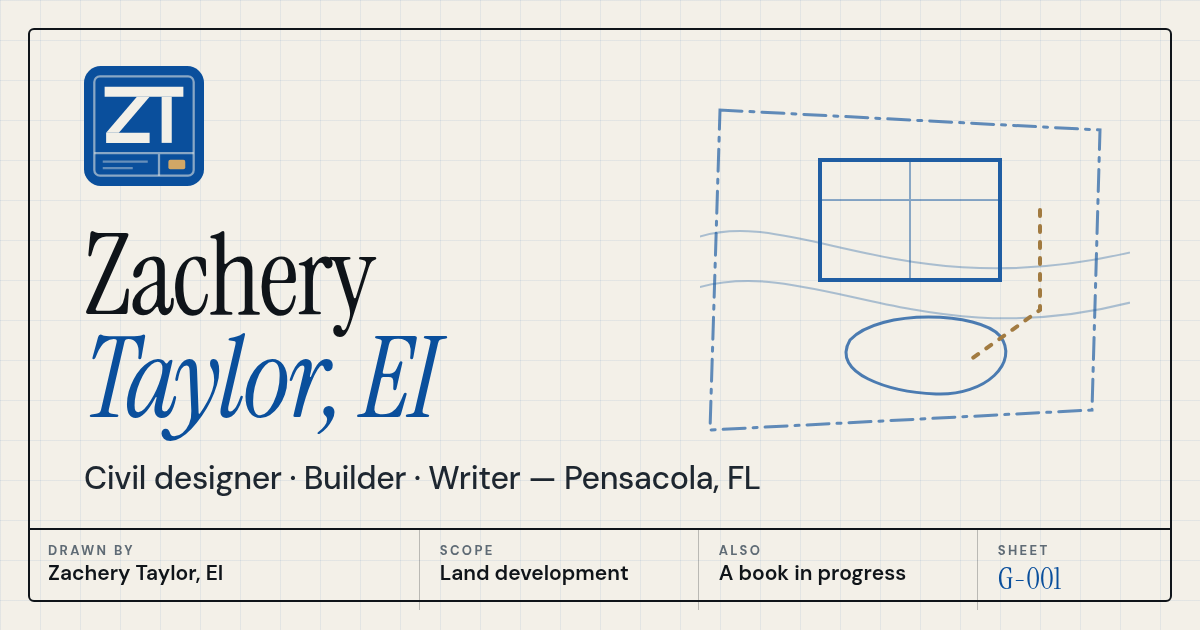
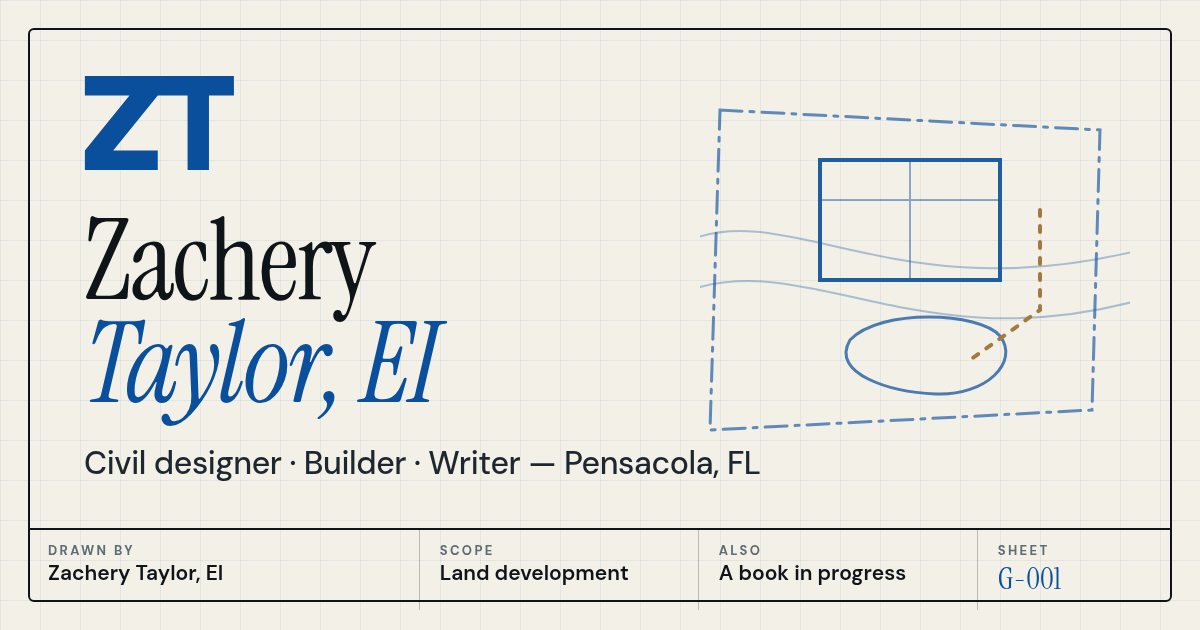
Monogram: adopt N1 (Ligature) site-wide
- site.config monogram n1; nav, footer title block, 404 and résumé (screen + print) use it
- favicons: favicon.svg adapts to light/dark; ico (16+32), favicon-16/32.png and 192/512 icons use the blue N1 tile
- apple-touch-icon and maskable 192/512 manifest icons from a full-bleed N1 app icon
- og-default.png re-rendered with N1 (scripts/og-card.html)
- brand.html: N1 shown as the selected mark; all explored options collapsed below

Changed region(s): [[0.0617, 0.3317, 0.6475, 0.7841], [0.0617, 0.0905, 0.2158, 0.3016]]

diff --git a/eleventy.config.js b/eleventy.config.js
@@ -188,24 +188,42 @@ export default function (eleventyConfig) {
   });
   eleventyConfig.addFilter("where", (arr, key, val) => (arr || []).filter((x) => x[key] === val));
 
-  /* ---- favicons from the selected monogram ---- */
+  /* ---- favicons + app icons from the selected monogram ----
+     favicon.svg          the mark itself (container-less marks adapt to the
+                          OS light/dark setting through their own <style>)
+     favicon.ico, favicon-16/32.png, icon-192/512.png
+                          from monogram-<key>-tile.svg when it exists (a solid
+                          tile reads on light and dark browser chrome alike)
+     apple-touch-icon.png, icon-maskable-192/512.png
+                          from monogram-<key>-app.svg (full-bleed, safe zone) */
   eleventyConfig.on("eleventy.after", async ({ dir }) => {
-    const svg = srcPath(`assets/brand/monogram-${site.monogram}.svg`);
+    const base = `assets/brand/monogram-${site.monogram}`;
+    const pick = (...c) => c.map((f) => srcPath(`${base}${f}.svg`)).find((f) => fs.existsSync(f));
+    const svg = pick(""), tile = pick("-tile", ""), app = pick("-app", "-tile", "");
     const out = dir.output;
     fs.copyFileSync(svg, path.join(out, "favicon.svg"));
-    const png = async (size, file) =>
-      sharp(svg, { density: 600 }).resize(size, size).png().toFile(path.join(out, file));
-    await png(180, "apple-touch-icon.png");
-    await png(192, "icon-192.png");
-    await png(512, "icon-512.png");
-    const ico32 = await sharp(svg, { density: 600 }).resize(32, 32).png().toBuffer();
-    // Minimal ICO container wrapping a 32px PNG (supported by all modern browsers).
-    const header = Buffer.alloc(22);
-    header.writeUInt16LE(0, 0); header.writeUInt16LE(1, 2); header.writeUInt16LE(1, 4);
-    header.writeUInt8(32, 6); header.writeUInt8(32, 7); header.writeUInt8(0, 8); header.writeUInt8(0, 9);
-    header.writeUInt16LE(1, 10); header.writeUInt16LE(32, 12);
-    header.writeUInt32LE(ico32.length, 14); header.writeUInt32LE(22, 18);
-    fs.writeFileSync(path.join(out, "favicon.ico"), Buffer.concat([header, ico32]));
+    const raster = (src, size) => sharp(src, { density: 600 }).resize(size, size).png().toBuffer();
+    const write = async (src, size, file) => fs.writeFileSync(path.join(out, file), await raster(src, size));
+    await write(tile, 16, "favicon-16.png");
+    await write(tile, 32, "favicon-32.png");
+    await write(tile, 192, "icon-192.png");
+    await write(tile, 512, "icon-512.png");
+    await write(app, 180, "apple-touch-icon.png");
+    await write(app, 192, "icon-maskable-192.png");
+    await write(app, 512, "icon-maskable-512.png");
+    // ICO container holding the 16 px and 32 px PNGs.
+    const imgs = [await raster(tile, 16), await raster(tile, 32)];
+    const head = Buffer.alloc(6 + 16 * imgs.length);
+    head.writeUInt16LE(0, 0); head.writeUInt16LE(1, 2); head.writeUInt16LE(imgs.length, 4);
+    let offset = head.length;
+    imgs.forEach((buf, i) => {
+      const size = i ? 32 : 16, o = 6 + 16 * i;
+      head.writeUInt8(size, o); head.writeUInt8(size, o + 1); head.writeUInt8(0, o + 2); head.writeUInt8(0, o + 3);
+      head.writeUInt16LE(1, o + 4); head.writeUInt16LE(32, o + 6);
+      head.writeUInt32LE(buf.length, o + 8); head.writeUInt32LE(offset, o + 12);
+      offset += buf.length;
+    });
+    fs.writeFileSync(path.join(out, "favicon.ico"), Buffer.concat([head, ...imgs]));
   });
 
   return {

diff --git a/scripts/og-card.html b/scripts/og-card.html
@@ -7,7 +7,7 @@ body{width:1200px;height:630px;background:#f3f0e8;font-family:"DM Sans";color:#0
 .grid{position:absolute;inset:0;background-image:linear-gradient(rgba(10,79,156,.07) 1px,transparent 1px),linear-gradient(90deg,rgba(10,79,156,.07) 1px,transparent 1px);background-size:40px 40px}
 .frame{position:absolute;inset:28px;border:2px solid #0f1419;border-radius:6px}
 .inner{position:absolute;left:84px;top:66px;right:84px}
-.mark{width:120px;height:120px;margin-bottom:34px}
+.mark{display:block;width:150px;height:94px;margin:10px 0 40px}
 h1{font-family:"Instrument Serif";font-weight:400;font-size:112px;line-height:.92;letter-spacing:-2px}
 h1 em{color:#0a4f9c}
 p{margin-top:26px;font-size:32px;font-weight:500;color:#1e2730;letter-spacing:-.4px}
@@ -25,20 +25,7 @@ p{margin-top:26px;font-size:32px;font-weight:500;color:#1e2730;letter-spacing:-.
 <path d="M150 260 C 180 228,280 232,300 256 C 320 282,286 316,236 314 C 190 312,130 294,150 260Z" stroke-width="3" opacity=".8"/>
 <path d="M340 130 V230 L270 280" stroke="#9a6f2f" stroke-width="4" stroke-dasharray="6 10"/>
 </svg>
-<div class="inner"><svg class="mark" xmlns="http://www.w3.org/2000/svg" viewBox="0 0 64 64" role="img" aria-labelledby="t d">
-  
-  
-  <rect width="64" height="64" rx="9" fill="#0a4f9c"/>
-  <rect x="5.5" y="5.5" width="53" height="53" rx="3" fill="none" stroke="#f3f0e8" stroke-opacity=".55" stroke-width="1.2"/>
-  <path d="M5.5 46.5h53M40 46.5v12" stroke="#f3f0e8" stroke-opacity=".55" stroke-width="1.2"/>
-  <path d="M10 51h24M10 54.5h16" stroke="#f3f0e8" stroke-opacity=".4" stroke-width="1.2"/>
-  <rect x="45" y="50" width="9" height="5" rx="1" fill="#d2a766"/>
-  <!-- one shared top stroke = Z top bar + T crossbar -->
-  <path d="M11 11h42v5.4H11z" fill="#f3f0e8"/>
-  <path d="M28.2 16.4h6.8L18.6 35.6h-6.8z" fill="#f3f0e8"/>
-  <path d="M11.8 35.6h23.2V41H11.8z" fill="#f3f0e8"/>
-  <path d="M41.4 16.4h5.4V41h-5.4z" fill="#f3f0e8"/>
-</svg>
+<div class="inner"><svg class="mark" xmlns="http://www.w3.org/2000/svg" viewBox="10 17.5 46.3 29" aria-hidden="true"><path fill="#0a4f9c" d="M10.27 17.5L56.27 17.5L56.27 23.5L48.57 23.5L48.57 46.5L41.97 46.5L41.97 23.5L32.77 23.5L19.02 40.5L32.77 40.5L32.77 46.5L10.27 46.5L10.27 40.5L24.03 23.5L10.27 23.5Z"/></svg>
 <h1>Zachery<br><em>Taylor, EI</em></h1><p>Civil designer · Builder · Writer — Pensacola, FL</p></div>
 <div class="tb"><div><small>DRAWN BY</small><span>Zachery Taylor, EI</span></div><div><small>SCOPE</small><span>Land development</span></div><div><small>ALSO</small><span>A book in progress</span></div><div class="s"><small>SHEET</small><span>G-001</span></div></div>
 </body></html>

diff --git a/src/assets/css/site.css b/src/assets/css/site.css
@@ -975,6 +975,8 @@ dialog.gallery-modal .modal-close:hover { background: var(--bronze-light); }
 .cv-top { display: flex; justify-content: space-between; gap: 24px; align-items: flex-end; padding-bottom: 18px; border-bottom: 2px solid var(--ink); }
 .cv-top h1 { font-size: clamp(2.2rem, 5vw, 3.1rem); line-height: 1; letter-spacing: -0.01em; }
 .cv-top h1 span { color: var(--blueprint); font-style: italic; }
+.cv-mark { display: block; width: 56px; height: 56px; margin: -14px 0 2px -9px; }
+.cv-mark svg { display: block; width: 100%; height: 100%; }
 .cv-headline { margin-top: 8px; color: var(--bronze-text); font-size: 0.78rem; font-weight: 700; letter-spacing: 0.14em; text-transform: uppercase; }
 .cv-contact { list-style: none; text-align: right; color: var(--muted); font-size: 0.84rem; line-height: 1.6; }
 .cv-sec { padding-top: 22px; }
@@ -1005,7 +1007,7 @@ dialog.gallery-modal .modal-close:hover { background: var(--bronze-light); }
 }
 @page { size: letter; margin: 0.5in 0.55in; }
 @media print {
-  :root, :root[data-theme="dark"] { --ink: #000; --graphite: #1a1a1a; --muted: #333; --grey-text: #444; --blueprint: #0a4f9c; --bronze: #86612a; --bronze-text: #86612a; --sheet-line: #999; --sheet-bg: #fff; color-scheme: light; }
+  :root, :root[data-theme="dark"] { --mark-ink: #000; --mark-accent: #0a4f9c; --ink: #000; --graphite: #1a1a1a; --muted: #333; --grey-text: #444; --blueprint: #0a4f9c; --bronze: #86612a; --bronze-text: #86612a; --sheet-line: #999; --sheet-bg: #fff; color-scheme: light; }
   html, body { background: #fff !important; color: #000; }
   body::before, body::after { display: none; }
   .page-resume .site-footer, .page-resume .resume-head, .page-resume .resume-foot, .page-resume .skip-link, .theme-toggle { display: none !important; }
@@ -1014,6 +1016,7 @@ dialog.gallery-modal .modal-close:hover { background: var(--bronze-light); }
   .resume { max-width: none; margin: 0; padding: 0; border: 0; box-shadow: none; background: #fff; font-size: 10pt; line-height: 1.36; }
   .cv-top { padding-bottom: 8px; }
   .cv-top h1 { font-size: 24pt; }
+  .cv-mark { width: 0.5in; height: 0.5in; margin: -0.12in 0 0 -0.08in; }
   .cv-contact { font-size: 9pt; }
   .cv-sec { padding-top: 10px; }
   .cv-sec h2 { break-after: avoid; }

diff --git a/site.config.js b/site.config.js
@@ -29,7 +29,7 @@ export default {
 
   /* ---------- Brand ---------- */
 
-  // Which monogram drives the nav mark, footer mark + favicons:
+  // Which monogram drives the nav mark, footer mark + favicons (N1 is Zach's pick):
   // "a" | "b" | "c" (round 1), "d" | "e" | "f" | "g" (round 2),
   // "h" | "i" | "j" | "k" (round 3, statement marks),
   // "i1" … "i8" (variants of I, lot split),
@@ -37,7 +37,7 @@ export default {
   // or "n1" … "n8" (fresh concepts: crisp, precise marks).
   // Options with a horizontal lockup (currently "g") use it in the nav automatically.
   // See /brand.html for all options.
-  monogram: "a",
+  monogram: "n1",
 
   /* ---------- Third-party services (all optional) ---------- */
   // Leave a value empty ("") and the feature degrades gracefully:
